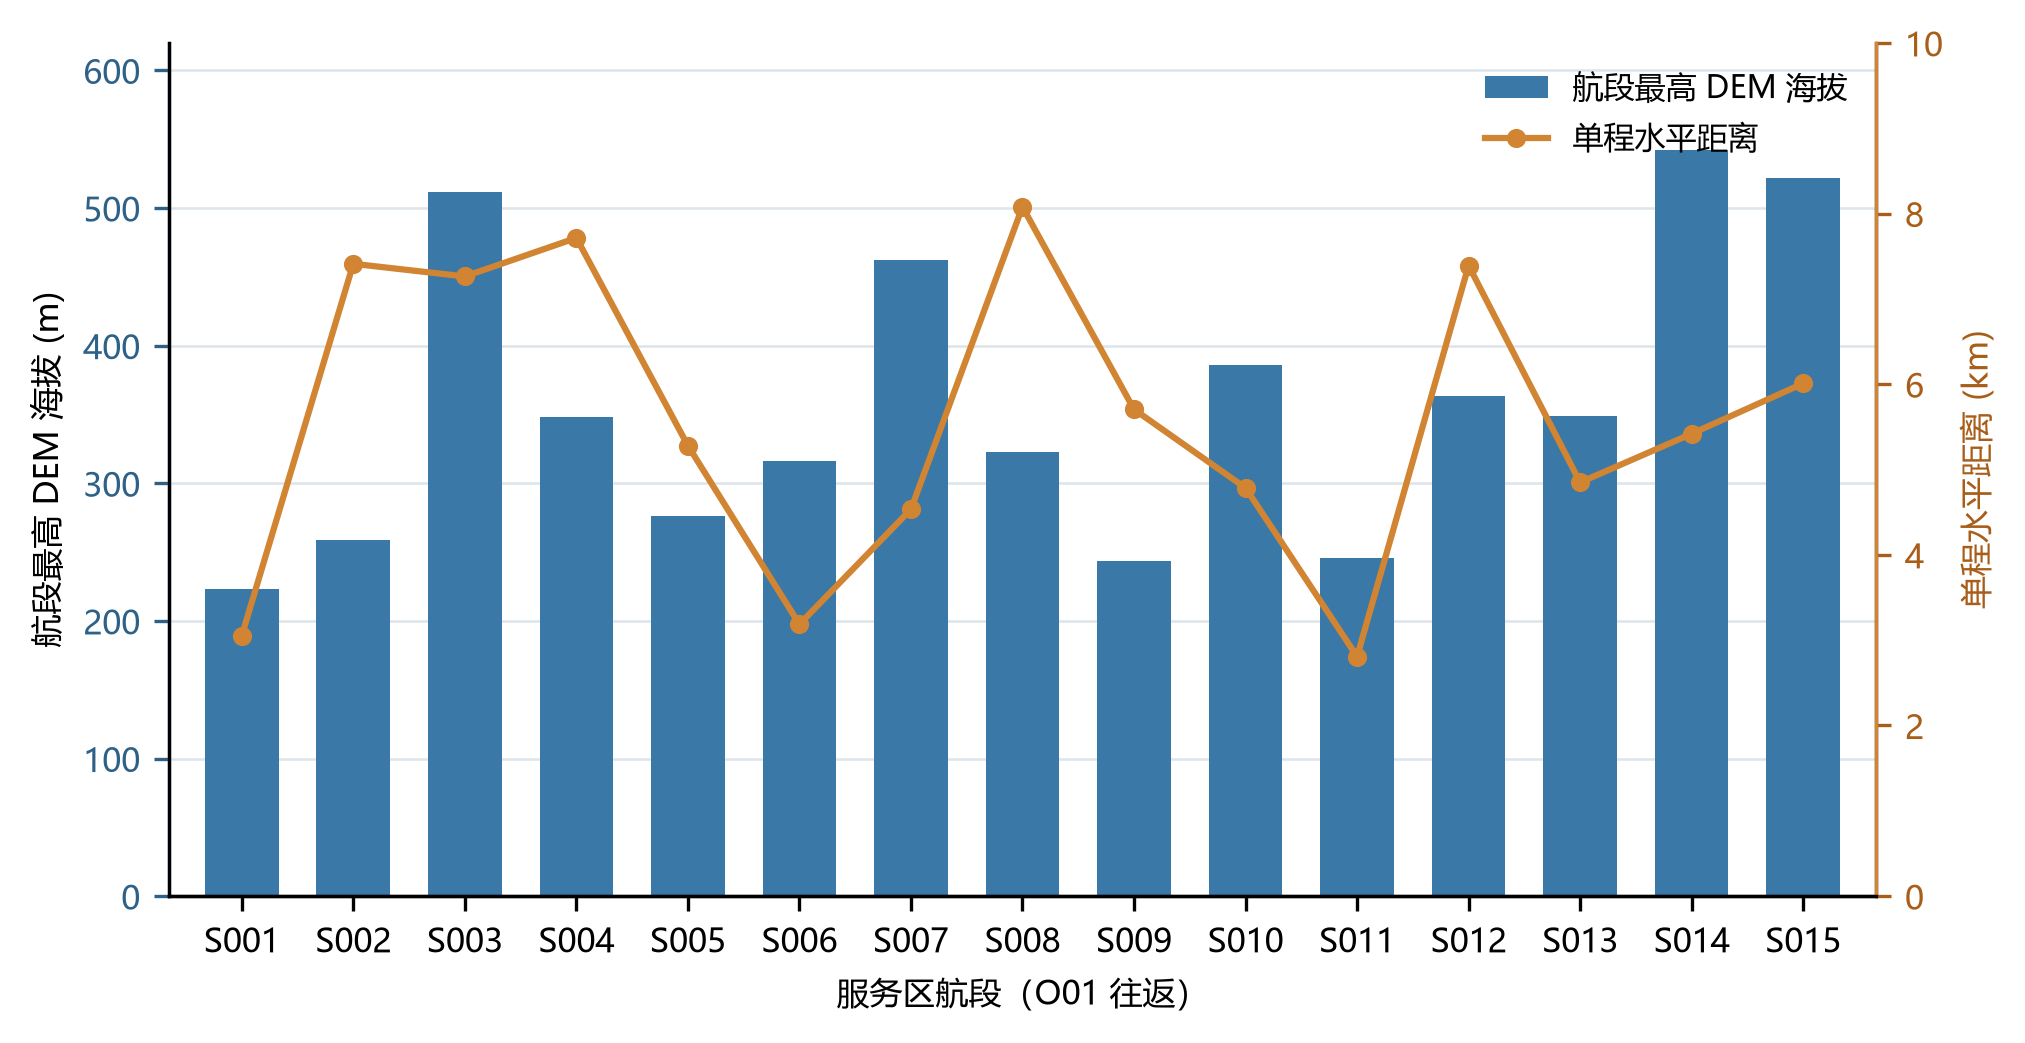
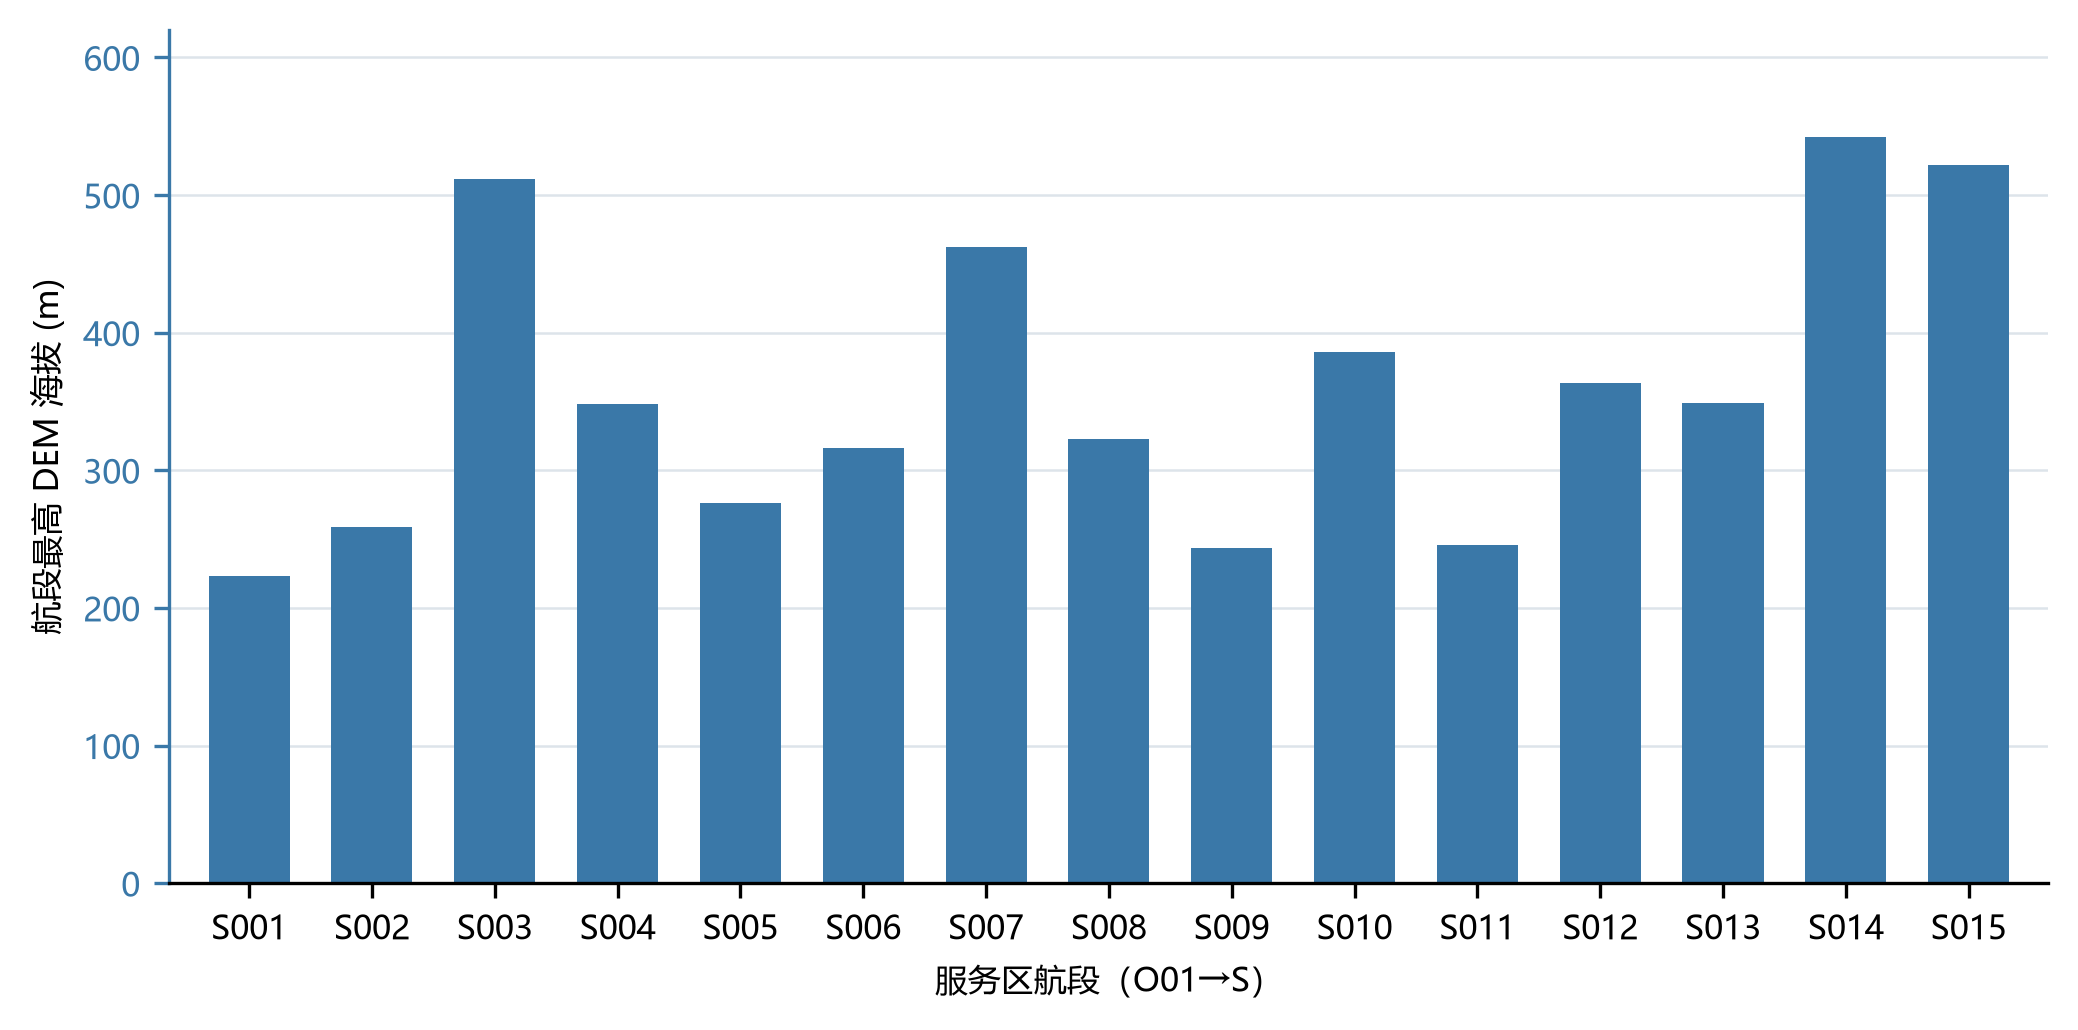
Split Q1 terrain, distance and sortie figures

Changed region(s): [[0.0, 0.0311, 0.9956, 0.9631]]

diff --git a/plot_q1_trips_by_area.py b/plot_q1_trips_by_area.py
@@ -1,0 +1,147 @@
+"""Plot Q1 sortie composition and per-sortie payload use as separate figures."""
+
+from __future__ import annotations
+
+import argparse
+import csv
+from collections import Counter, defaultdict
+from pathlib import Path
+
+import matplotlib as mpl
+import matplotlib.pyplot as plt
+import numpy as np
+
+from plot_q1_rated_soc import AIRCRAFT
+
+
+ROOT = Path(__file__).resolve().parent
+SOURCE = ROOT / "results" / "问题一_非枚举整数规划" / "最优组批_逐架次.csv"
+DEFAULT_OUTPUT = ROOT / "figures" / "问题一_非枚举整数规划"
+MODELS = ("A", "B", "C")
+COLORS = {"A": "#425B9A", "B": "#2797B5", "C": "#18A184"}
+TRIPS_STEM = "result_q1_trips_by_area"
+LOAD_STEM = "result_q1_load_utilization"
+
+
+def load_sorties():
+    with SOURCE.open(encoding="utf-8-sig", newline="") as stream:
+        rows = list(csv.DictReader(stream))
+    if len(rows) != 18 or any(row["机型"] not in MODELS for row in rows):
+        raise ValueError("Expected 18 Q1 sorties using models A, B or C")
+    areas = sorted({row["服务区"] for row in rows})
+    if areas != [f"S{i:03d}" for i in range(1, 16)]:
+        raise ValueError("Expected service areas S001–S015")
+    return rows, areas
+
+
+def save_figure(fig, out_dir: Path, stem: str, publication: bool):
+    path = out_dir / stem
+    fig.savefig(path.with_suffix(".png"), dpi=300, bbox_inches="tight")
+    if publication:
+        svg = path.with_suffix(".svg")
+        fig.savefig(svg, bbox_inches="tight", metadata={"Date": None})
+        svg.write_text("\n".join(line.rstrip() for line in svg.read_text(encoding="utf-8").splitlines()) + "\n",
+                       encoding="utf-8")
+        fig.savefig(path.with_suffix(".pdf"), bbox_inches="tight")
+        fig.savefig(path.with_suffix(".tiff"), dpi=600, bbox_inches="tight")
+    plt.close(fig)
+    print(path)
+
+
+def plot_trips(rows, areas, out_dir: Path, publication: bool):
+    counts = defaultdict(Counter)
+    masses = defaultdict(float)
+    for row in rows:
+        area = row["服务区"]
+        counts[area][row["机型"]] += 1
+        masses[area] += float(row["质量_kg"])
+    fig, ax = plt.subplots(figsize=(7.2, 5.0))
+    y = np.arange(len(areas), dtype=float)
+    left = np.zeros(len(areas))
+    for model in MODELS:
+        values = np.array([counts[area][model] for area in areas], dtype=float)
+        ax.barh(y, values, left=left, height=0.63, color=COLORS[model],
+                label=f"{model} 型", zorder=2)
+        left += values
+    for i, area in enumerate(areas):
+        ax.text(left[i] + 0.06, y[i], f"{int(left[i])} 架 / {masses[area]:.0f} kg",
+                va="center", ha="left", fontsize=7)
+    ax.set_yticks(y, areas)
+    ax.invert_yaxis()
+    ax.set_xlim(0, 3.15)
+    ax.set_xticks([0, 1, 2, 3])
+    ax.set_xlabel("单服务区往返架次（架次）")
+    ax.set_ylabel("服务区")
+    for tick in (1, 2):
+        ax.axvline(tick, color="#DDE4EA", linewidth=0.55, zorder=0)
+    ax.legend(loc="lower right", ncol=1, fontsize=7.5)
+    fig.subplots_adjust(left=0.12, right=0.98, bottom=0.13, top=0.98)
+    save_figure(fig, out_dir, TRIPS_STEM, publication)
+    with (out_dir / f"{TRIPS_STEM}_data.csv").open("w", encoding="utf-8-sig", newline="") as stream:
+        writer = csv.writer(stream)
+        writer.writerow(["服务区", "A型架次", "B型架次", "C型架次", "总架次", "总质量_kg"])
+        for area in areas:
+            writer.writerow([area, *(counts[area][model] for model in MODELS),
+                             sum(counts[area].values()), masses[area]])
+
+
+def plot_load_utilization(rows, out_dir: Path, publication: bool):
+    fig, ax = plt.subplots(figsize=(7.2, 3.2))
+    model_y = {model: i for i, model in enumerate(MODELS)}
+    by_model = {model: [row for row in rows if row["机型"] == model] for model in MODELS}
+    data = []
+    for model in MODELS:
+        group = by_model[model]
+        if not group:
+            continue
+        offsets = np.linspace(-0.13, 0.13, len(group))
+        for row, offset in zip(group, offsets):
+            mass = float(row["质量_kg"])
+            utilization = 100 * mass / AIRCRAFT[model][1]
+            data.append((row["服务区"], row["架次"], model, mass, utilization))
+            ax.scatter(utilization, model_y[model] + offset, s=29,
+                       color=COLORS[model], edgecolor="white", linewidth=0.4, zorder=3)
+    ax.axvline(100, color="#808890", linestyle="--", linewidth=0.9)
+    ax.text(99.5, 2.43, "100% 额定载荷", ha="right", va="top", fontsize=7, color="#667078")
+    ax.set_yticks([0, 1, 2], ["A 型", "B 型", "C 型"])
+    ax.set_ylim(-0.42, 2.48)
+    ax.set_xlim(45, 105)
+    ax.set_xticks(np.arange(50, 101, 10))
+    ax.set_xlabel("单架次载重利用率（批次质量 / 额定载荷，%）")
+    ax.set_ylabel("机型")
+    ax.grid(axis="x", color="#DDE4EA", linewidth=0.55, zorder=0)
+    for model in ("B", "C"):
+        ax.scatter([], [], s=29, color=COLORS[model], label=f"{model} 型（{len(by_model[model])} 架次）")
+    ax.legend(loc="upper left", bbox_to_anchor=(1.02, 1.0), fontsize=7.5, borderaxespad=0)
+    fig.subplots_adjust(left=0.10, right=0.78, bottom=0.23, top=0.96)
+    save_figure(fig, out_dir, LOAD_STEM, publication)
+    with (out_dir / f"{LOAD_STEM}_data.csv").open("w", encoding="utf-8-sig", newline="") as stream:
+        writer = csv.writer(stream)
+        writer.writerow(["服务区", "架次", "机型", "质量_kg", "额定载荷利用率_pct"])
+        writer.writerows(data)
+
+
+def main(out_dir: Path = DEFAULT_OUTPUT, publication: bool = False):
+    rows, areas = load_sorties()
+    out_dir.mkdir(parents=True, exist_ok=True)
+    mpl.rcParams.update({
+        "font.family": "sans-serif",
+        "font.sans-serif": ["Microsoft YaHei", "Arial", "DejaVu Sans", "sans-serif"],
+        "font.size": 8,
+        "axes.spines.top": False,
+        "axes.spines.right": False,
+        "axes.linewidth": 0.8,
+        "svg.fonttype": "none",
+        "pdf.fonttype": 42,
+        "legend.frameon": False,
+    })
+    plot_trips(rows, areas, out_dir, publication)
+    plot_load_utilization(rows, out_dir, publication)
+
+
+if __name__ == "__main__":
+    parser = argparse.ArgumentParser()
+    parser.add_argument("--out-dir", type=Path, default=DEFAULT_OUTPUT)
+    parser.add_argument("--publication", action="store_true", help="Also export PDF and 600 dpi TIFF")
+    args = parser.parse_args()
+    main(args.out_dir, publication=args.publication)

diff --git a/plot_q1_distance_terrain.py b/plot_q1_distance_terrain.py
@@ -1,4 +1,4 @@
-"""Plot Q1 route terrain and distance on equally spaced route categories."""
+"""Draw separate Q1 terrain and distance bar charts with equal route spacing."""
 
 from __future__ import annotations
 
@@ -14,7 +14,8 @@ import numpy as np
 ROOT = Path(__file__).resolve().parent
 SOURCE = ROOT / "results" / "有向航段几何参数.csv"
 DEFAULT_OUTPUT = ROOT / "figures" / "问题一_非枚举整数规划"
-STEM = "raw_q1_distance_terrain"
+TERRAIN_STEM = "raw_q1_distance_terrain"
+DISTANCE_STEM = "raw_q1_distance"
 
 
 def load_routes():
@@ -41,6 +42,34 @@ def load_routes():
     return data
 
 
+def draw_bars(out_dir: Path, stem: str, areas: list[str], values: list[float],
+              ylabel: str, color: str, ymax: float, publication: bool):
+    x = np.arange(len(areas), dtype=float)
+    fig, ax = plt.subplots(figsize=(7.2, 3.6))
+    ax.bar(x, values, width=0.66, color=color, zorder=2)
+    ax.set_ylabel(ylabel)
+    ax.set_ylim(0, ymax)
+    ax.set_xlim(-0.65, len(areas) - 0.35)
+    ax.set_xticks(x, areas)
+    ax.set_xlabel("服务区航段（O01→S）")
+    ax.grid(axis="y", color="#DDE4EA", linewidth=0.6, zorder=0)
+    ax.spines["left"].set_color(color)
+    ax.tick_params(axis="y", colors=color)
+    fig.subplots_adjust(left=0.105, right=0.975, bottom=0.17, top=0.96)
+
+    output = out_dir / stem
+    fig.savefig(output.with_suffix(".png"), dpi=300, bbox_inches="tight")
+    if publication:
+        svg_path = output.with_suffix(".svg")
+        fig.savefig(svg_path, bbox_inches="tight", metadata={"Date": None})
+        svg_path.write_text("\n".join(line.rstrip() for line in svg_path.read_text(encoding="utf-8").splitlines()) + "\n",
+                            encoding="utf-8")
+        fig.savefig(output.with_suffix(".pdf"), bbox_inches="tight")
+        fig.savefig(output.with_suffix(".tiff"), dpi=600, bbox_inches="tight")
+    plt.close(fig)
+    print(output)
+
+
 def main(out_dir: Path = DEFAULT_OUTPUT, publication: bool = False):
     data = load_routes()
     out_dir.mkdir(parents=True, exist_ok=True)
@@ -49,56 +78,22 @@ def main(out_dir: Path = DEFAULT_OUTPUT, publication: bool = False):
         "font.sans-serif": ["Microsoft YaHei", "Arial", "DejaVu Sans", "sans-serif"],
         "font.size": 8,
         "axes.spines.top": False,
-        "axes.spines.right": True,
+        "axes.spines.right": False,
         "axes.linewidth": 0.8,
         "svg.fonttype": "none",
         "pdf.fonttype": 42,
-        "legend.frameon": False,
     })
-    x = np.arange(len(data), dtype=float)
     areas = [item[0] for item in data]
     distances = [item[1] for item in data]
     elevations = [item[2] for item in data]
-
-    fig, ax = plt.subplots(figsize=(7.2, 3.6))
-    bars = ax.bar(x, elevations, width=0.66, color="#3A78A8", label="航段最高 DEM 海拔", zorder=2)
-    ax.set_ylabel("航段最高 DEM 海拔 (m)")
-    ax.set_ylim(0, 620)
-    ax.set_xlim(-0.65, len(data) - 0.35)
-    ax.set_xticks(x, areas)
-    ax.set_xlabel("服务区航段（O01 往返）")
-    ax.grid(axis="y", color="#DDE4EA", linewidth=0.6, zorder=0)
-    ax.spines["left"].set_color("#3A78A8")
-    ax.tick_params(axis="y", colors="#2E6187")
-
-    ax_distance = ax.twinx()
-    (line,) = ax_distance.plot(x, distances, color="#D18432", marker="o", markersize=3.6,
-                               linewidth=1.5, label="单程水平距离", zorder=3)
-    ax_distance.set_ylabel("单程水平距离 (km)", color="#A85E19")
-    ax_distance.set_ylim(0, 10)
-    ax_distance.tick_params(axis="y", colors="#A85E19")
-    ax_distance.spines["right"].set_color("#D18432")
-    ax_distance.spines["right"].set_visible(True)
-    ax_distance.spines["top"].set_visible(False)
-    ax.legend([bars, line], ["航段最高 DEM 海拔", "单程水平距离"],
-              loc="upper right", ncol=1, fontsize=7.5)
-    fig.subplots_adjust(left=0.105, right=0.895, bottom=0.17, top=0.96)
-
-    output = out_dir / STEM
-    svg_path = output.with_suffix(".svg")
-    fig.savefig(svg_path, bbox_inches="tight", metadata={"Date": None})
-    svg_path.write_text("\n".join(line.rstrip() for line in svg_path.read_text(encoding="utf-8").splitlines()) + "\n",
-                        encoding="utf-8")
-    fig.savefig(output.with_suffix(".png"), dpi=300, bbox_inches="tight")
-    if publication:
-        fig.savefig(output.with_suffix(".pdf"), bbox_inches="tight")
-        fig.savefig(output.with_suffix(".tiff"), dpi=600, bbox_inches="tight")
-    plt.close(fig)
-    with output.with_name(STEM + "_data.csv").open("w", encoding="utf-8-sig", newline="") as stream:
+    draw_bars(out_dir, TERRAIN_STEM, areas, elevations, "航段最高 DEM 海拔 (m)",
+              "#3A78A8", 620, publication)
+    draw_bars(out_dir, DISTANCE_STEM, areas, distances, "单程水平距离 (km)",
+              "#D18432", 9.2, publication)
+    with (out_dir / f"{TERRAIN_STEM}_data.csv").open("w", encoding="utf-8-sig", newline="") as stream:
         writer = csv.writer(stream)
         writer.writerow(["服务区航段", "单程水平距离（km）", "航段DEM最高海拔（m）"])
         writer.writerows(data)
-    print(output)
 
 
 if __name__ == "__main__":

diff --git a/问题一_直接指派绘图.py b/问题一_直接指派绘图.py
@@ -10,6 +10,7 @@ from matplotlib.patches import FancyArrowPatch, FancyBboxPatch
 from utils.plot_style import choose_font
 from plot_q1_distance_terrain import main as plot_distance_terrain
 from plot_q1_rated_soc import main as plot_rated_soc
+from plot_q1_trips_by_area import main as plot_trips_by_area
 
 ROOT = Path(__file__).resolve().parent
 TARGET = ROOT / "figures" / "问题一_非枚举整数规划"
@@ -57,10 +58,11 @@ def main():
     TARGET.mkdir(parents=True, exist_ok=True)
     plot_distance_terrain(TARGET)
     plot_rated_soc()
+    plot_trips_by_area(TARGET)
     # 其余数据图随当前结果提交；下文重绘直接指派的求解过程与流程图。
     shared = ("raw_q1_range_payload", "raw_q1_box_count",
               "process_q1_energy_boundary", "process_q1_rated_soc",
-              "result_q1_safe_payload", "result_q1_trips_by_area", "result_q1_trip_soc")
+              "result_q1_safe_payload", "result_q1_trip_soc")
     for stem in shared:
         if not (TARGET / (stem + ".png")).exists():
             raise FileNotFoundError(f"当前版本的数据图缺失：{stem}.png")
